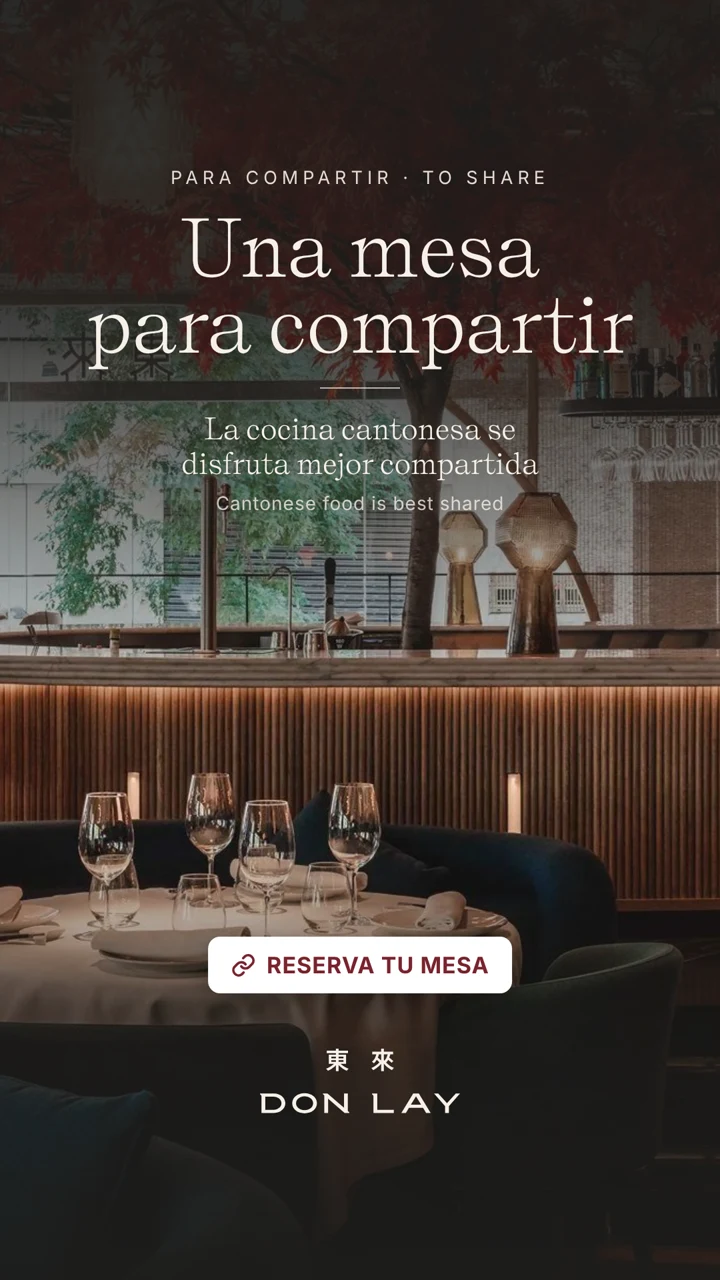
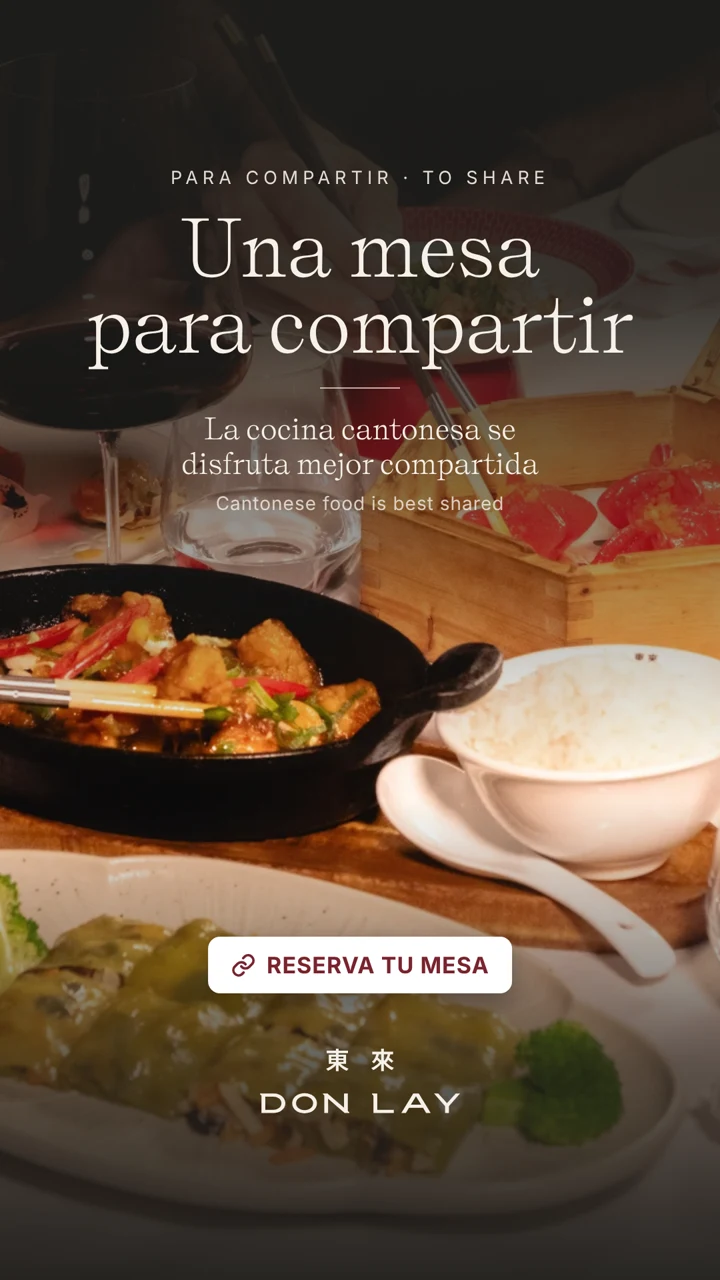
Don Lay noviembre: dos stories de los reservados con teléfono (sábados 14 y 28)
Claude-Session: https://claude.ai/code/session_01JZ4qrDBJDBfAgLjm6moZsY

diff --git a/app/pitch/donlay-calendario/noviembre/contenido.ts b/app/pitch/donlay-calendario/noviembre/contenido.ts
@@ -35,6 +35,10 @@ export const CONTENIDO: Contenido = {
       {
         "url": "/pitch/donlay-calendario/noviembre/sab-14-reservas.jpg",
         "tipo": "imagen"
+      },
+      {
+        "url": "/pitch/donlay-calendario/noviembre/sab-14-story-1.webp",
+        "tipo": "imagen"
       }
     ]
   },
@@ -90,6 +94,10 @@ export const CONTENIDO: Contenido = {
     "medios": [
       {
         "url": "/pitch/donlay-calendario/noviembre/sab-28-reservas.jpg",
+        "tipo": "imagen"
+      },
+      {
+        "url": "/pitch/donlay-calendario/noviembre/sab-28-story-1.webp",
         "tipo": "imagen"
       }
     ]
